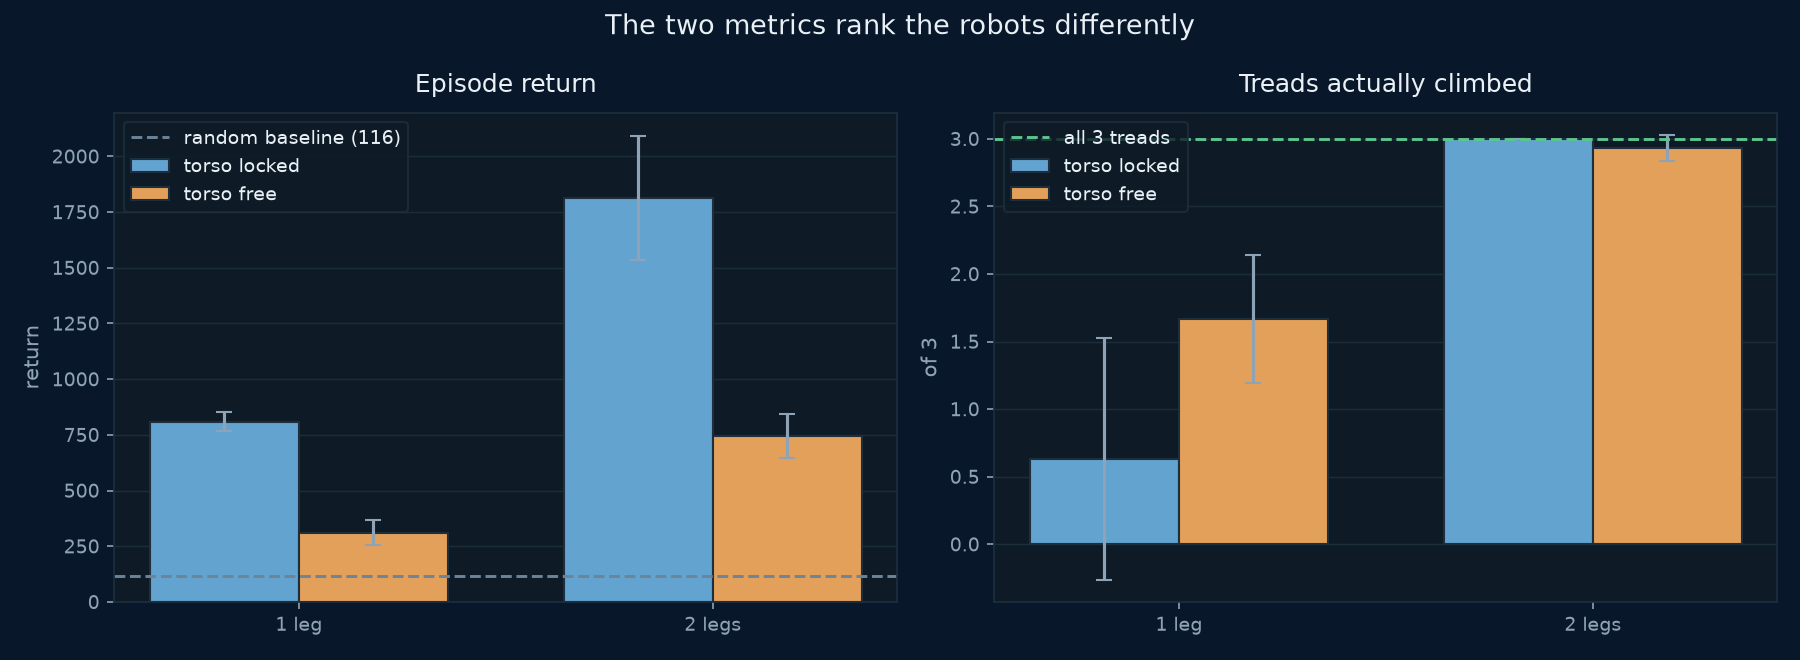
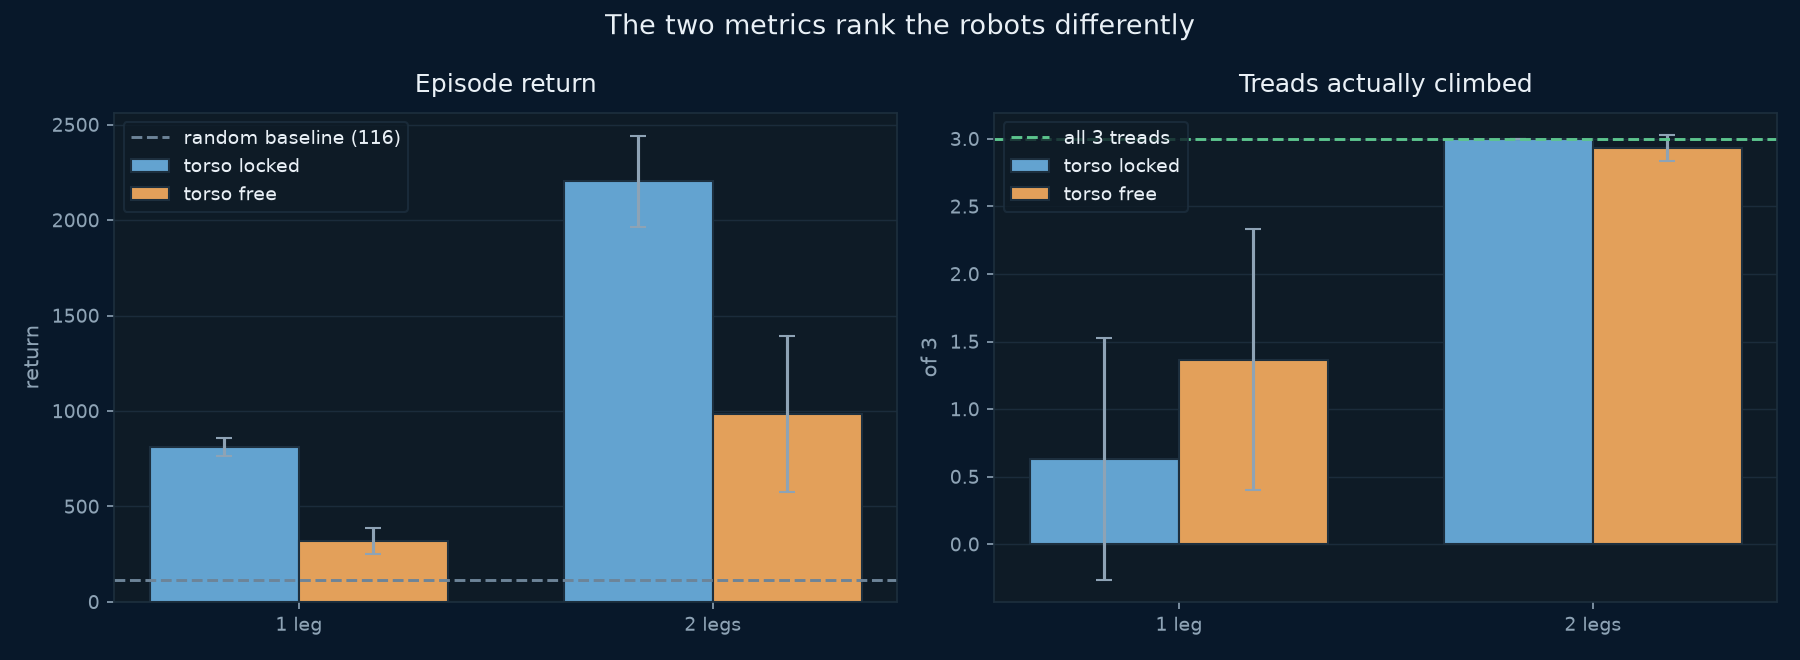
fix: a fifth wrong climb detector, and the showcase clip (#76)
Adds the long animation, and corrects the metric underneath every number
on the page. Those are one change because the second forced a fourth
training sweep.

THE DETECTOR TOOK FIVE ATTEMPTS

Rendering the showcase clip exposed the remaining two. The HUD read
"1/3 treads" while the robot walked on open floor eleven metres past the
staircase, which is how the last two were found:

  4. foot lift, but TORSO x for the footprint test. The foot capsule runs
     -0.08 to +0.14 of the ankle, so torso x and foot x disagree by most
     of a tread and a robot squarely on the top step was credited with
     the one below.
  5. `foot_lift > 0.6 * top` per tread. Standing on tread 2 of a 0.06 m
     staircase lifts 0.12, which clears 60% of tread 3's 0.18 and
     credited three.

The working version asks where the SUPPORTING foot is and divides its
lift by the rise. Treads are evenly spaced, so the index is exact and
there is no tolerance left to tune. Verified at three steepnesses on
every tread plus both open-floor cases.

`steps_climbed` is now instantaneous and correctly returns to zero once
the robot walks off the far end; `best_tread()` is the running maximum,
which is what the reward pays on and what the HUD shows.

FOURTH SWEEP, AND THE FINDING SURVIVED

Three of the five wrong detectors also gated the +3-per-tread reward, so
each cost a full sweep. Every number now published is from the fourth.
The result is unchanged in shape, which is the reassuring part:
[…]

diff --git a/07_physical_ai/02_biped_stairs/stairs_env.py b/07_physical_ai/02_biped_stairs/stairs_env.py
@@ -138,30 +138,42 @@ class BipedStairs:
         tread it has passed is the combination that can only mean it is
         standing on the thing.
         """
-        x = float(self.data.qpos[0])
-        # FOOT LIFT above its own resting height on flat ground. This
-        # took three attempts and each wrong answer was quietly plausible:
+        # Which tread is the SUPPORTING foot resting on?
         #
-        #   1. torso qpos[1] vs an absolute tread height -- ignored that
-        #      the robot rests at -0.196, so a policy standing on the top
-        #      step counted as climbing nothing.
-        #   2. torso lift above resting -- a robot on a tread with BENT
-        #      legs sits lower than one standing straight on the floor.
-        #      Measured crouched on a 0.07 m tread: +0.032 against a 0.042
-        #      threshold, missed.
-        #   3. raw foot z -- the foot capsule has a 0.045 m radius, so a
-        #      foot flat on the ground already clears the first tread's
-        #      threshold and a robot that never left the floor read 1/3.
+        # Everything here is the supporting foot's own position -- not the
+        # torso's. Using torso x was the fourth wrong answer: the foot
+        # capsule runs from -0.08 to +0.14 of the ankle, so torso x and
+        # foot x disagree by up to a tread's width, and a robot squarely
+        # on the top step was credited with the step below.
         #
-        # Measuring the foot against ITS OWN flat-ground height is immune
-        # to all three.
-        foot_lift = (min(float(self.data.geom_xpos[g][2])
-                         for g in self._feet) - self._foot_rest_z)
-        n = 0
-        for x0, x1, top in stair_tops(self.rise):
-            if x >= x0 and foot_lift > 0.6 * top:
-                n += 1
-        return n
+        # Count = how many tread tops the foot has risen above. Standing
+        # on tread 3 of a 0.06 m staircase means a lift of ~0.18, which
+        # clears 0.06, 0.12 and 0.18 -> three. Standing on open floor
+        # means a lift of ~0 -> none, whatever x says.
+        zs = [float(self.data.geom_xpos[g][2]) for g in self._feet]
+        k = int(np.argmin(zs))
+        foot_x = float(self.data.geom_xpos[self._feet[k]][0])
+        foot_lift = zs[k] - self._foot_rest_z
+
+        # Outside the staircase there is nothing to be standing on, so a
+        # high swing foot on open ground cannot be mistaken for a climb.
+        if not (STAIR_X0 - 0.25 <= foot_x <= STAIR_END_X + 0.25):
+            return 0
+        # Treads are evenly spaced by `rise`, so the tread index is just
+        # the lift divided by the rise, rounded. A `foot_lift > 0.6 * top`
+        # test per tread was the fifth wrong answer: standing on tread 2
+        # of a 0.06 m staircase lifts 0.12, which clears 60% of tread 3's
+        # 0.18 and credited three. Division has no tolerance to tune.
+        return int(np.clip(round(foot_lift / self.rise), 0, N_STAIRS))
+
+    def best_tread(self) -> int:
+        """Highest tread reached so far. A running maximum, not a snapshot.
+
+        `steps_climbed` is instantaneous and correctly falls back to zero
+        once the robot walks off the far end. What a reader wants to see,
+        and what the reward pays on, is the best reached in the episode.
+        """
+        return self._climbed
 
     # -- observation --------------------------------------------------------
 
@@ -232,7 +244,7 @@ class BipedStairs:
             self.t >= self.max_steps, {
                 "x": float(self.data.qpos[0]),
                 "rise": self.rise,
-                "climbed": climbed,
+                "climbed": self._climbed,     # running max, not a snapshot
                 "at_top": self.at_top(),
                 "height": self.torso_height(),
                 "pitch": self.pitch(),

diff --git a/07_physical_ai/02_biped_stairs/render.py b/07_physical_ai/02_biped_stairs/render.py
@@ -138,7 +138,7 @@ def frames_for(policy, env, *, seed: int, every: int, width: int,
                        ("distance", f"{x:+.2f} m"),
                        ("to the step", f"{gap:+.2f} m" if gap > 0 else "past"),
                        ("torso height", f"{env.torso_height():.2f} m"),
-                       ("treads climbed", f"{env.steps_climbed()}/{N_STAIRS}"),
+                       ("treads climbed", f"{env.best_tread()}/{N_STAIRS}"),
                        ("rise / step", f"{env.rise:.2f} m"),
                        ("return", f"{total:.0f}")],
                 status=("AT THE TOP" if env.at_top() else
@@ -366,6 +366,40 @@ def do_gif(args) -> None:
                   args.colors)
 
 
+def do_showcase(args) -> None:
+    """
+    One long clip of the best policy doing the whole job.
+
+    The two comparison clips are short and cut off, because their purpose
+    is a side-by-side. This one is the opposite: a full 700-step episode
+    of the strongest cell, so a reader can watch it walk on the flat,
+    arrive at the staircase, climb all three treads, and keep walking.
+
+    Measured before filming, rather than hoped for: `2leg_locked` at a
+    0.06 m rise survives the entire episode, reaches 11.4 m, and takes
+    all three treads. A showcase clip of a policy that falls over would
+    be a worse advertisement than no clip.
+    """
+    import json
+
+    from stairs_env import BipedStairs
+
+    run = best_run("2leg_locked")
+    policy, meta = load_policy(run)
+    f = meta["final"]
+    env = BipedStairs(legs=2, locked_torso=True, fixed_rise=args.show_rise,
+                      max_steps=args.show_steps)
+    frames = frames_for(
+        policy, env, seed=11, every=args.show_every,
+        width=args.show_width, height=args.show_height,
+        max_frames=args.show_max_frames,
+        title="TRAINED — WALK, CLIMB, CARRY ON",
+        subtitle=f"2 legs · torso locked · {meta['total_steps'] // 1000}k "
+                 f"steps of PPO · summit {f['at_top']:.0%}")
+    _save_gif(frames, OUT / "stairs-showcase.gif", args.frame_ms,
+              args.colors)
+
+
 def _save_gif(frames, path, frame_ms: int, colors: int) -> None:
     """Palette-quantise; full colour costs four times the bytes here."""
     from PIL import Image
@@ -382,6 +416,14 @@ def main() -> int:
     ap = argparse.ArgumentParser(description=__doc__)
     ap.add_argument("--stills", action="store_true")
     ap.add_argument("--gif", action="store_true")
+    ap.add_argument("--showcase", action="store_true",
+                    help="the long clip of the best policy")
+    ap.add_argument("--show-rise", type=float, default=0.06)
+    ap.add_argument("--show-steps", type=int, default=700)
+    ap.add_argument("--show-every", type=int, default=7)
+    ap.add_argument("--show-max-frames", type=int, default=100)
+    ap.add_argument("--show-width", type=int, default=820)
+    ap.add_argument("--show-height", type=int, default=430)
     ap.add_argument("--rise", type=float, default=0.07)
     ap.add_argument("--width", type=int, default=640)
     ap.add_argument("--height-px", type=int, default=340)
@@ -390,8 +432,8 @@ def main() -> int:
     ap.add_argument("--frame-ms", type=int, default=80)
     ap.add_argument("--colors", type=int, default=48)
     args, _ = ap.parse_known_args()
-    if not (args.stills or args.gif):
-        args.stills = args.gif = True
+    if not (args.stills or args.gif or args.showcase):
+        args.stills = args.gif = args.showcase = True
 
     os.environ["MUJOCO_GL"] = pick_backend()
     OUT.mkdir(parents=True, exist_ok=True)
@@ -401,6 +443,8 @@ def main() -> int:
         do_stills(args)
     if args.gif:
         do_gif(args)
+    if args.showcase:
+        do_showcase(args)
     return 0
 
 

diff --git a/tests/test_biped_stairs.py b/tests/test_biped_stairs.py
@@ -208,6 +208,61 @@ def test_climbing_needs_height_and_position(r: Results) -> None:
             "the positive case fails, so the two negatives prove nothing")
 
 
+def test_the_climb_detector_is_exact(r: Results) -> None:
+    """
+    Place the robot on a known tread; the count must be that tread.
+
+    This is the check the lab needed from the start. The detector took
+    FIVE attempts and every wrong version produced a clean, consistent,
+    publishable table:
+
+      1. torso height vs an absolute tread height -- ignored the -0.196
+         resting offset, so a policy that walked 14.5 m past the whole
+         staircase reported 0 climbed;
+      2. torso lift above resting -- a robot on a tread with bent legs
+         sits lower than one standing straight on the floor;
+      3. raw foot height -- the foot capsule's 0.045 m radius already
+         clears tread one, so a robot on the floor read 1;
+      4. foot lift but TORSO x for the footprint -- the foot runs -0.08
+         to +0.14 of the ankle, so a robot squarely on the top step was
+         credited with the one below;
+      5. `lift > 0.6 * top` per tread -- standing on tread 2 of a 0.06 m
+         staircase lifts 0.12, which clears 60% of tread 3's 0.18.
+
+    The working version divides the supporting foot's lift by the rise.
+    Three of those five also corrupted the reward, so they cost whole
+    training sweeps rather than just a wrong printout.
+    """
+    for rise in (RISE_MIN, 0.06, RISE_MAX):
+        for i, (x0, x1, top) in enumerate(stair_tops(rise)):
+            env = BipedStairs(legs=2, locked_torso=True, fixed_rise=rise)
+            env.reset(seed=0)
+            env.data.qpos[0] = (x0 + x1) / 2
+            env.data.qpos[1] = env._rest_z + top
+            env._mj.mj_forward(env.model, env.data)
+            for _ in range(60):
+                env.step(np.zeros(env.act_dim))
+            got = env.steps_climbed()
+            r.check(got == i + 1,
+                    f"rise {rise:.2f}, placed on tread {i + 1} -> counts "
+                    f"{i + 1}",
+                    f"counted {got}; the detector is off by "
+                    f"{got - (i + 1):+d} and the reward pays on it")
+
+    for x, where in ((9.0, "far past the staircase"), (-2.0, "before it")):
+        env = BipedStairs(legs=2, locked_torso=True, fixed_rise=0.06)
+        env.reset(seed=0)
+        env.data.qpos[0] = x
+        env.data.qpos[1] = env._rest_z
+        env._mj.mj_forward(env.model, env.data)
+        for _ in range(40):
+            env.step(np.zeros(env.act_dim))
+        r.check(env.steps_climbed() == 0,
+                f"standing on open floor {where} counts zero",
+                f"counted {env.steps_climbed()} — a walking gait's swing "
+                f"foot is being read as a climb")
+
+
 def test_rise_randomises_and_is_observable(r: Results) -> None:
     env = BipedStairs(legs=1, locked_torso=True)
     rises = {round(env.reset(seed=s)[1]["rise"], 5) for s in range(20)}
@@ -305,6 +360,7 @@ def main() -> int:
     test_a_locked_torso_cannot_tip(r)
     test_the_staircase_is_real(r)
     test_climbing_needs_height_and_position(r)
+    test_the_climb_detector_is_exact(r)
     test_rise_randomises_and_is_observable(r)
     test_determinism(r)
     test_random_baseline_never_summits(r)

diff --git a/docusaurus-docs/docs/tutorials/physical/biped-stairs.md b/docusaurus-docs/docs/tutorials/physical/biped-stairs.md
@@ -48,24 +48,24 @@ ever reaches the top. **Budget:** 800k steps, three seeds, four cells.
 
 | cell | return (3 seeds) | treads climbed /3 | summit |
 |---|---|---|---|
-| 1 leg, locked | 788 · 871 · 771 | 0.0 · 1.9 · 0.0 | 0% |
-| 1 leg, free | 356 · 342 · 231 | 2.0 · 2.0 · 1.0 | 0% |
-| **2 legs, locked** | **1866 · 1447 · 2123** | **3.0 · 3.0 · 3.0** | **100%** |
-| 2 legs, free | 633 · 874 · 726 | 3.0 · 2.8 · 3.0 | 93% |
+| 1 leg, locked | 788 · 875 · 771 | 0.0 · 1.9 · 0.0 | 0% · 10% · 0% |
+| 1 leg, free | 377 · 361 · 224 | 2.0 · 2.1 · 0.0 | 20% · 30% · 0% |
+| **2 legs, locked** | **1884 · 2277 · 2449** | **3.0 · 3.0 · 3.0** | **100%** |
+| 2 legs, free | 645 · 1559 · 750 | 3.0 · 3.0 · 2.8 | 100% · 100% · 80% |
 
 ![The 2x2 on both metrics](/img/physical/stairs-2x2.png)
 
 **The limb dominates.** Mean treads climbed goes 0.63 → 3.00 with a locked
-torso and 1.67 → 2.93 with a free one. Every two-legged seed summits; no
+torso and 1.37 → 2.93 with a free one. Every two-legged seed summits; no
 one-legged seed ever does.
 
 ## But the switches interact
 
 ![Interaction plot](/img/physical/stairs-interaction.png)
 
-With **one** leg, freeing the torso **helps**: 0.63 → 1.67 treads. With
+With **one** leg, freeing the torso **helps**: 0.63 → 1.37 treads. With
 **two**, it costs a little climbing and a lot of return: 3.00 → 2.93
-treads, 1812 → 744.
+treads, 2203 → 985.
 
 The lines are not parallel, so no main-effects summary of this experiment
 is honest. You cannot say "freeing the torso costs X" — it depends on what
@@ -86,6 +86,18 @@ robot — the obvious choice, since it is the better robot — it would have
 concluded that freeing the torso is simply bad, and missed that it is the
 *only thing* that makes a one-legged robot climb at all.
 :::
+
+## The whole job, end to end
+
+![The trained two-legged robot walking, climbing, and carrying on](/img/physical/stairs-showcase.gif)
+
+One uninterrupted 700-step episode of the strongest cell. It walks on the
+flat, reaches the staircase, takes all three treads, and keeps going —
+**11.3 m in total, still upright when the episode times out.**
+
+The panel is read from the live simulation every frame. Watch `treads
+climbed` reach 3/3 and the status chip turn **AT THE TOP** around step
+150, then the distance keep climbing long after.
 
 ## Watch the difference
 

diff --git a/07_physical_ai/02_biped_stairs/README.md b/07_physical_ai/02_biped_stairs/README.md
@@ -33,23 +33,23 @@ Same staircase, same reward, same episode length. Only the robot changes.
 
 | cell | return (3 seeds) | treads climbed /3 | summit |
 |---|---|---|---|
-| 1 leg, locked | 788 · 871 · 771 | 0.0 · 1.9 · 0.0 | 0% |
-| 1 leg, free | 356 · 342 · 231 | 2.0 · 2.0 · 1.0 | 0% |
-| **2 legs, locked** | **1866 · 1447 · 2123** | **3.0 · 3.0 · 3.0** | **100%** |
-| 2 legs, free | 633 · 874 · 726 | 3.0 · 2.8 · 3.0 | 93% |
+| 1 leg, locked | 788 · 875 · 771 | 0.0 · 1.9 · 0.0 | 0% · 10% · 0% |
+| 1 leg, free | 377 · 361 · 224 | 2.0 · 2.1 · 0.0 | 20% · 30% · 0% |
+| **2 legs, locked** | **1884 · 2277 · 2449** | **3.0 · 3.0 · 3.0** | **100%** |
+| 2 legs, free | 645 · 1559 · 750 | 3.0 · 3.0 · 2.8 | 100% · 100% · 80% |
 
 ![The 2x2 on both metrics](../../docusaurus-docs/static/img/physical/stairs-2x2.png)
 
 **Adding a leg is transformative.** Mean treads climbed goes 0.63 → 3.00
-with a locked torso, and 1.67 → 2.93 with a free one. Every two-legged
+with a locked torso, and 1.37 → 2.93 with a free one. Every two-legged
 seed summits; no one-legged seed ever does.
 
 **Freeing the torso interacts with it.**
 
 ![Interaction plot](../../docusaurus-docs/static/img/physical/stairs-interaction.png)
 
-With one leg it **helps**: 0.63 → 1.67 treads. With two legs it costs a
-little climbing and a lot of return: 3.00 → 2.93 treads, 1812 → 744.
+With one leg it **helps**: 0.63 → 1.37 treads. With two legs it costs a
+little climbing and a lot of return: 3.00 → 2.93 treads, 2203 → 985.
 
 The lines are not parallel, so the switches are not independent, and no
 main-effects summary of this experiment is honest. The mechanism is
@@ -59,6 +59,11 @@ simply put one foot up, so the torso freedom stops being useful and
 becomes pure instability.
 
 ## Watch it
+
+![Walk, climb, carry on](../../docusaurus-docs/static/img/physical/stairs-showcase.gif)
+
+One uninterrupted 700-step episode of the best cell: walks the flat,
+climbs all three treads, carries on to 11.3 m, still upright at timeout.
 
 ![Torso locked](../../docusaurus-docs/static/img/physical/stairs-2leg_locked.gif)
 
